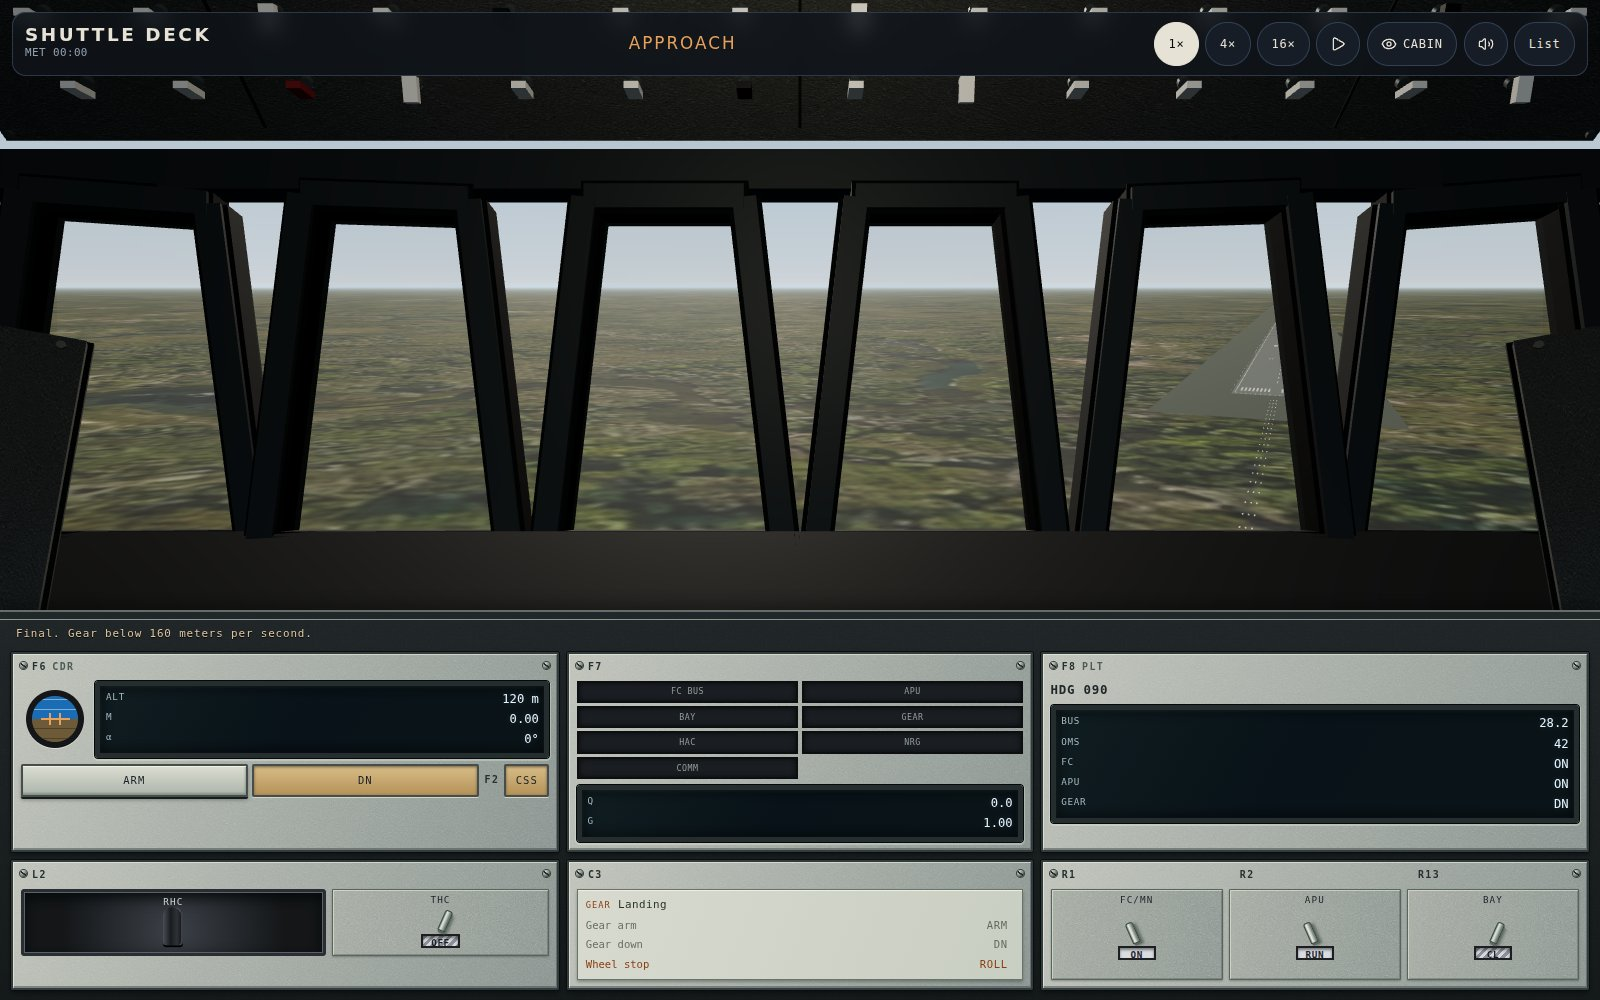
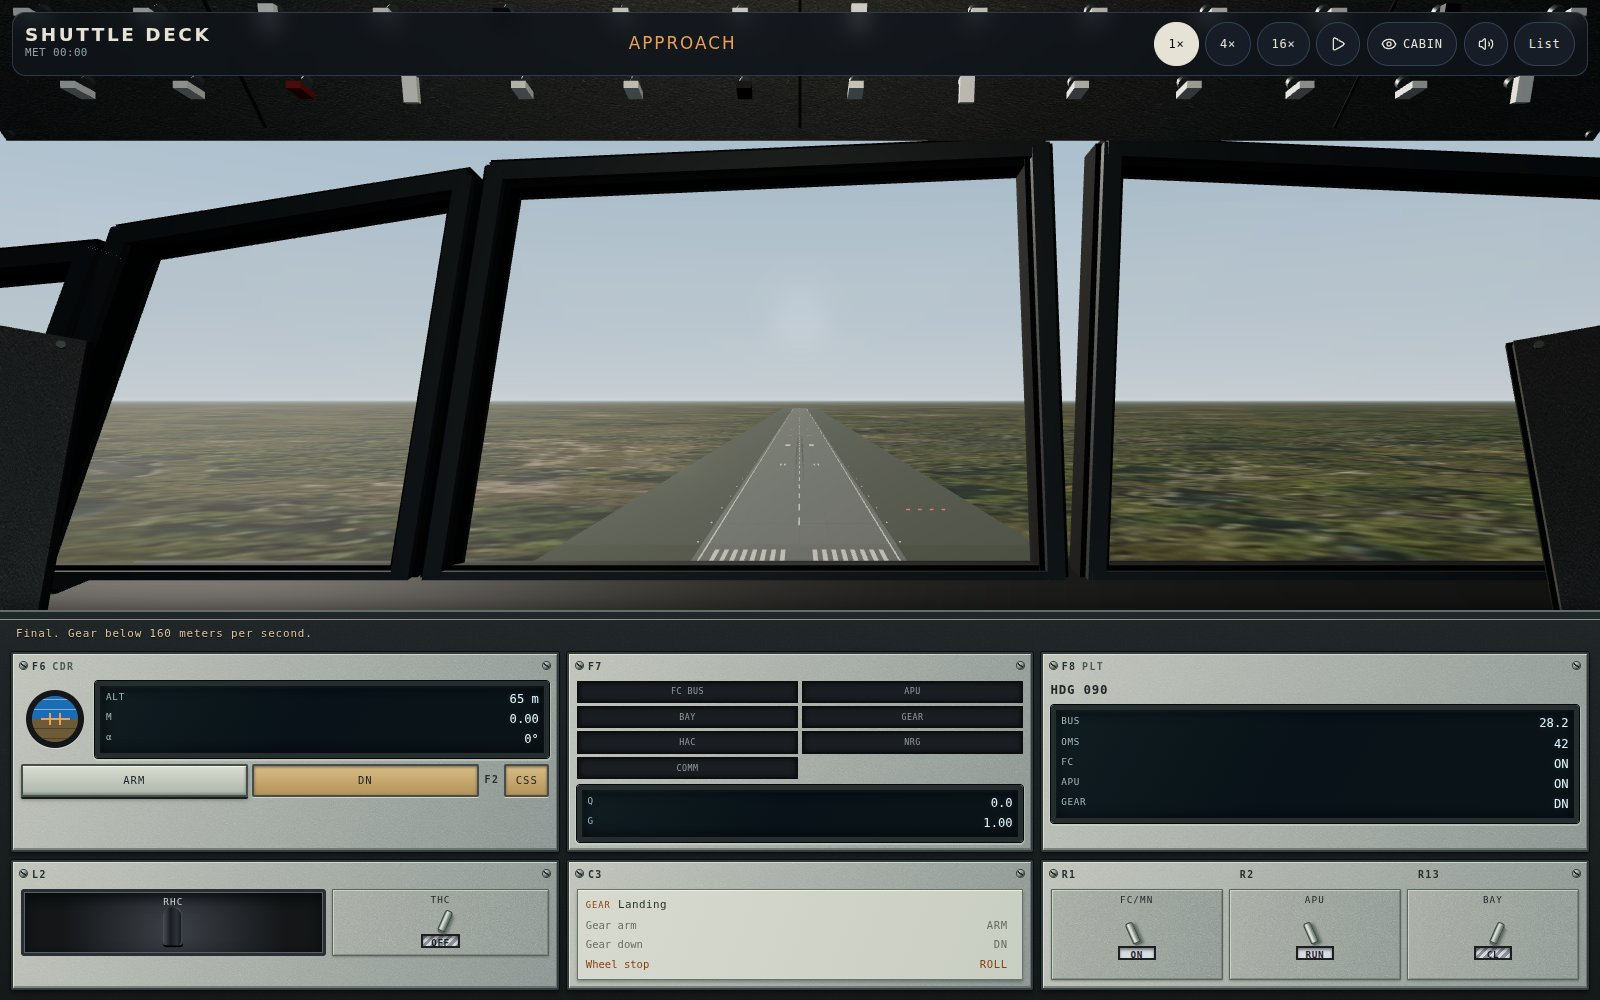
Refine commander cockpit sightlines and bank alignment

Changed region(s): [[0.0, 0.124, 1.0, 0.62], [0.9062, 0.124, 1.0, 0.155]]

diff --git a/web/deck/src/game/cabin.tsx b/web/deck/src/game/cabin.tsx
@@ -385,36 +385,30 @@ const GLASSES: { kind: string; x: number; y: number }[] = [
 const OVERHEAD_REDS = [2, 3, 16, 17, 44];
 const SIDE_REDS = [4, 9];
 
-function WindowFrame({ x, yaw }: { x: number; yaw: number }) {
-  const top = 0.2;
-  const bot = 0.3;
-  const h = 0.44;
-  const t = 0.03;
-  const lean = Math.atan2((bot - top) / 2, h);
-  const edgeX = (top + bot) / 4;
-  const glazing = useMemo(() => {
-    const shape = new THREE.Shape();
-    shape.moveTo(-bot / 2, -h / 2);
-    shape.lineTo(bot / 2, -h / 2);
-    shape.lineTo(top / 2, h / 2);
-    shape.lineTo(-top / 2, h / 2);
-    shape.closePath();
-    return new THREE.ShapeGeometry(shape);
-  }, []);
-  useEffect(() => () => glazing.dispose(), [glazing]);
-  return (
-    <group position={[x, 0.16, -1.06]} rotation={[0, yaw, 0]}>
-      <mesh position={[0, 0, -0.018]} geometry={glazing} material={matWindow} raycast={() => null} />
-      <Bar position={[0, h / 2, -0.008]} args={[top + 0.01, t + 0.012, 0.047]} material={matGasket} />
-      <Bar position={[0, -h / 2, -0.008]} args={[bot + 0.01, t + 0.012, 0.047]} material={matGasket} />
-      <Bar position={[-edgeX, 0, -0.008]} rotation={[0, 0, -lean]} args={[t + 0.012, h, 0.047]} material={matGasket} />
-      <Bar position={[edgeX, 0, -0.008]} rotation={[0, 0, lean]} args={[t + 0.012, h, 0.047]} material={matGasket} />
-      <Bar position={[0, h / 2, 0]} args={[top, t, 0.045]} material={matMullion} />
-      <Bar position={[0, -h / 2, 0]} args={[bot, t, 0.045]} material={matMullion} />
-      <Bar position={[-edgeX, 0, 0]} rotation={[0, 0, -lean]} args={[t, h, 0.045]} material={matMullion} />
-      <Bar position={[edgeX, 0, 0]} rotation={[0, 0, lean]} args={[t, h, 0.045]} material={matMullion} />
-    </group>
-  );
+// Commander-eye composition. Window topology follows NASA p3-7; seat layout follows p3-9;
+// coordinates are visual estimates, not a measured eye box.
+const FORWARD_PANES: [number, number][][] = [
+  [[-1.60,-0.10],[-1.04,-0.10],[-0.89,0.31],[-1.32,0.27]],
+  [[-1.00,-0.10],[-0.50,-0.10],[-0.42,0.40],[-0.85,0.33]],
+  [[-0.46,-0.10],[0.32,-0.10],[0.30,0.44],[-0.38,0.41]],
+  [[0.37,-0.10],[1.15,-0.10],[1.07,0.41],[0.39,0.44]],
+  [[1.19,-0.10],[1.69,-0.10],[1.54,0.33],[1.11,0.40]],
+  [[1.73,-0.10],[2.29,-0.10],[2.01,0.27],[1.58,0.31]],
+];
+function WindowFrame({ points }: { points: [number,number][] }) {
+  const glazing=useMemo(()=>new THREE.ShapeGeometry(new THREE.Shape(points.map(p=>new THREE.Vector2(...p)))),[points]);
+  useEffect(()=>()=>glazing.dispose(),[glazing]);
+  return <group position={[0,0,-1.08]}>
+    <mesh geometry={glazing} material={matWindow} raycast={()=>null}/>
+    {points.map(([x,y],i)=>{
+      const [ex,ey]=points[(i+1)%points.length];
+      const length=Math.hypot(ex-x,ey-y),angle=Math.atan2(ey-y,ex-x);
+      return <group key={i} position={[(x+ex)/2,(y+ey)/2,0.012]} rotation={[0,0,angle]}>
+        <Bar args={[length+0.016,0.036,0.042]} position={[0,0,0]} material={matGasket}/>
+        <Bar args={[length+0.012,0.022,0.044]} position={[0,0,0.010]} material={matMullion}/>
+      </group>;
+    })}
+  </group>;
 }
 
 function DisplayHousing({ map }: { map: THREE.Texture }) {
@@ -501,7 +495,8 @@ export function CabinInterior() {
   const live = sim.burning();
 
   return (
-    <group ref={root} visible={false}>
+    <group ref={root} name="cockpit-interior" visible={false}>
+      <pointLight position={[-0.3, 0.12, -0.15]} intensity={0.22} distance={2.4} decay={2} color="#dae5ed" />
       <Bar position={[0, 0.58, -0.72]} args={[2.2, 0.07, 0.9]} />
       <Bar position={[-1.05, 0.02, -0.62]} args={[0.08, 0.85, 0.85]} />
       <Bar position={[1.05, 0.02, -0.62]} args={[0.08, 0.85, 0.85]} />
@@ -514,18 +509,7 @@ export function CabinInterior() {
         <SwitchField rows={4} cols={14} width={1.55} height={0.26} reds={OVERHEAD_REDS} />
       </group>
 
-      <Bar position={[0, 0.42, -1.08]} args={[2.15, 0.05, 0.05]} material={matMullion} />
-      <Bar position={[0, -0.08, -1.08]} args={[2.15, 0.05, 0.05]} material={matMullion} />
-      {[
-        [-0.86, 0.24],
-        [-0.52, 0.1],
-        [-0.17, 0],
-        [0.17, 0],
-        [0.52, -0.1],
-        [0.86, -0.24],
-      ].map(([x, yaw]) => (
-        <WindowFrame key={x} x={x} yaw={yaw} />
-      ))}
+      {FORWARD_PANES.map((points,i)=><WindowFrame key={i} points={points}/>)}
       {[-0.32, 0.32].map((x) => (
         <group key={x}>
           <Bar position={[x, 0.5, -0.92]} args={[0.34, 0.02, 0.025]} material={matMullion} />
@@ -544,8 +528,8 @@ export function CabinInterior() {
         <meshBasicMaterial color={VOID} transparent opacity={0} depthWrite={false} />
       </mesh>
 
-      <mesh position={[0, -0.1, -0.98]} rotation={[0.55, 0, 0]} raycast={() => null} material={matHead}>
-        <boxGeometry args={[1.9, 0.045, 0.16]} />
+      <mesh position={[0.24, -0.135, -1.01]} rotation={[0.25, 0, 0]} raycast={() => null} material={matHead}>
+        <boxGeometry args={[2.25, 0.055, 0.22]} />
       </mesh>
 
       <group position={[0, -0.36, -0.78]} rotation={[-0.62, 0, 0]}>

diff --git a/web/deck/src/game/scene.tsx b/web/deck/src/game/scene.tsx
@@ -183,7 +183,7 @@ function World() {
 
     _fwd.set(-Math.sin(sim.yaw), 0, -Math.cos(sim.yaw));
     if (sim.view === "cockpit") {
-      _cam.copy(_nose).multiplyScalar(8 * scale).addScaledVector(_dorsal, 2.4 * scale);
+      _cam.copy(_nose).multiplyScalar(8 * scale).addScaledVector(_dorsal, 2.4 * scale).addScaledVector(_right, -0.45 * scale);
       _look.copy(_cam).add(_nose);
     } else if (sim.view === "tower") {
       _cam.set(terminal ? -40 : 10, terminal ? 18 : 8, terminal ? 30 : 24);
@@ -206,8 +206,17 @@ function World() {
       _cam.x += Math.sin(performance.now() * 0.05) * shake * 0.4;
       _cam.y += Math.cos(performance.now() * 0.07) * shake * 0.25;
     }
-    camera.position.lerp(_cam, 1 - Math.exp(-6 * wall));
-    camera.up.set(0, 1, 0);
+    if (sim.view === "cockpit") {
+      // A seated eye must follow body roll. Snapping removes the sideways look
+      // transient produced by interpolating toward a target only one unit away.
+      camera.position.copy(_cam);
+      camera.up.copy(_dorsal);
+      // Estimated 7-degree downward sightline keeps the touchdown area above the glare shield.
+      _look.copy(camera.position).add(_nose).addScaledVector(_dorsal, -Math.tan(7 * Math.PI / 180));
+    } else {
+      camera.position.lerp(_cam, 1 - Math.exp(-6 * wall));
+      camera.up.set(0, 1, 0);
+    }
     camera.lookAt(_look);
   });
 
@@ -321,7 +330,7 @@ function AssetLoading() {
 export function FlightScene() {
   return (
     <SceneBoundary>
-      <Canvas camera={{ position: [0, 8, -24], fov: 48, near: 0.1, far: 4000 }} dpr={[1, 1.5]} shadows={{ type: THREE.PCFShadowMap }}
+      <Canvas className="flight-viewport" camera={{ position: [0, 8, -24], fov: 48, near: 0.1, far: 4000 }} dpr={[1, 1.5]} shadows={{ type: THREE.PCFShadowMap }}
         gl={{ antialias: true, toneMapping: THREE.ACESFilmicToneMapping, toneMappingExposure: 1.05 }}>
         <Suspense fallback={null}>
           <World />

diff --git a/web/deck/styles.css b/web/deck/styles.css
@@ -1274,3 +1274,31 @@
   color: #e7e2d6;
   text-shadow: none;
 }
+
+/* Preserve an outside view above the scrollable console in portrait. */
+@media (max-width: 600px) and (min-height: 650px) {
+  .hud[data-view="cockpit"] .topbar {
+    display: grid;
+    grid-template-columns: 1fr auto;
+    gap: 0.35rem;
+    padding: 0.4rem;
+  }
+  .hud[data-view="cockpit"] .brand b { font-size: 0.8rem; }
+  .hud[data-view="cockpit"] .phase-pill { font-size: 0.8rem; }
+  .hud[data-view="cockpit"] .topbar .row {
+    grid-column: 1 / -1;
+    flex-wrap: nowrap;
+    justify-content: space-between;
+    gap: 0.2rem;
+  }
+  .hud[data-view="cockpit"] .topbar button {
+    min-width: 2rem;
+    padding-inline: 0.35rem;
+    font-size: 0.65rem;
+  }
+  .deck:has(.hud[data-view="cockpit"]) .flight-viewport {
+    position: absolute !important;
+    top: 6.6rem;
+    height: calc(38dvh - 6.6rem) !important;
+  }
+}

diff --git a/web/deck/COCKPIT_VIEW.md b/web/deck/COCKPIT_VIEW.md
@@ -1,0 +1,47 @@
+# Commander-view refinement
+
+## Sources and limits
+
+NASA's [Shuttle overview](https://www.nasa.gov/reference/the-space-shuttle/)
+identifies the commander on the left, pilot on the right and six forward
+windshields. The [forward-fuselage structural drawing, p. 3-7](https://www.nasa.gov/history/SP-4225/diagrams/shuttle/shuttle-diagram-5.htm)
+provides the wrapping window topology; the [crew arrangement, p. 3-9](https://www.nasa.gov/history/SP-4225/diagrams/shuttle/shuttle-diagram-7.htm)
+locates the seats. Its large perspective is the **aft** station, not a forward
+window reference.
+
+These references support the layout, not the numerical window coordinates,
+eye point or field of view. All remain visual estimates. This pass does not
+claim photogrammetric alignment, measured sightlines or a mission-specific
+cockpit reconstruction. The six-pane opening is a planar presentation
+approximation; the real forward structure wraps in three dimensions.
+
+## Changes
+
+- Replace six repeated narrow frames with differentiated trapezoidal openings,
+  positioning the principal forward pane ahead of the commander and the
+  center post to the right of the view.
+- Lower and deepen the glare shield and add restrained local fill to the
+  physical framing. Existing interactive instrument panels remain in place.
+- Offset the world eye toward the commander side; snap the seated camera to
+  its target rather than interpolating toward a look target only one unit away.
+  This removes sideways view transients when changing cameras.
+- Use the body dorsal vector as camera up, so banking tilts the outside horizon.
+- Use an estimated seven-degree downward viewing angle to keep the approach
+  touchdown area visible above the glare shield. The camera-relative cabin
+  remains a presentation rig, not an independently calibrated rigid cabin.
+
+- Portrait layouts (up to 600 px wide, at least 650 px tall) use a compact
+  header and a separate outside-view region above the scrollable console.
+
+## Review evidence
+
+[Before](review/cockpit-before.jpg) and [after](review/cockpit.jpg) use the same
+paused level approach setup: x=-700, altitude 65, gear down, yaw=-pi/2.
+[Bank](review/cockpit-bank.jpg) adds 0.3 rad of bank; the cabin stays fixed while
+the outside horizon rotates. [Portrait](review/cockpit-mobile.jpg) uses 390×844.
+These are controlled rendering states, not a completed landing flight.
+
+Browser verification checks APU off/on, camera cycling and a reachable mobile
+APU control after console scrolling. Production build includes TypeScript;
+existing exhaust tests are also checked. Historical dimensions, headset eye
+positions and full-flight acceptance remain outside this pass.

diff --git a/web/deck/VISUAL_ASSETS.md b/web/deck/VISUAL_ASSETS.md
@@ -70,6 +70,13 @@ refines the nose/window belt, and replaces ellipsoid OMS pods with tapered
 fairings. See [ORBITER_GEOMETRY.md](ORBITER_GEOMETRY.md) for exact sources,
 estimated details, and before/after review renders.
 
+## Commander view
+
+The seated-view pass reshapes the forward window openings, adjusts the glare
+shield and fixes camera bank alignment and view-transition drift. See
+[COCKPIT_VIEW.md](COCKPIT_VIEW.md) for sources, estimated sightline settings,
+comparison renders and acceptance limits.
+
 ## Validation and limits
 
 `npm run build` includes strict TypeScript checking. Desktop browser checks
